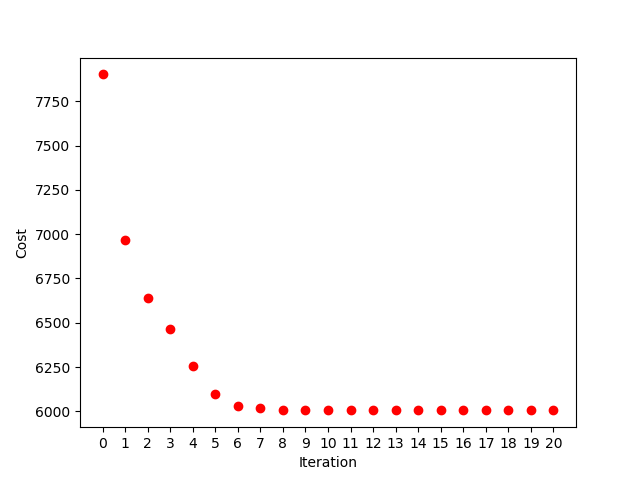
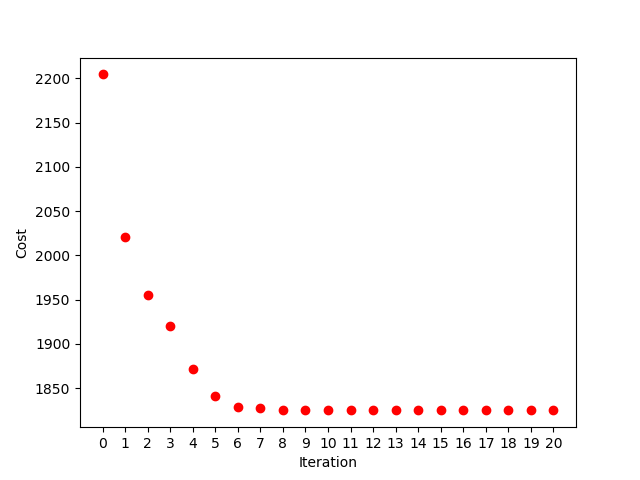
Small P3 fix

diff --git a/Project3-kMeans-pageRank/k-means.py b/Project3-kMeans-pageRank/k-means.py
@@ -64,7 +64,7 @@ def getCost(clusters):
 	for clusterKey in clusters:
 		cluster = clusters[clusterKey]
 		for point in cluster:
-			cost += math.pow(getDistance(point, centroids[clusterKey]), 2)
+			cost += getDistance(point, centroids[clusterKey])
 	return cost	
 		
 clearResult()
